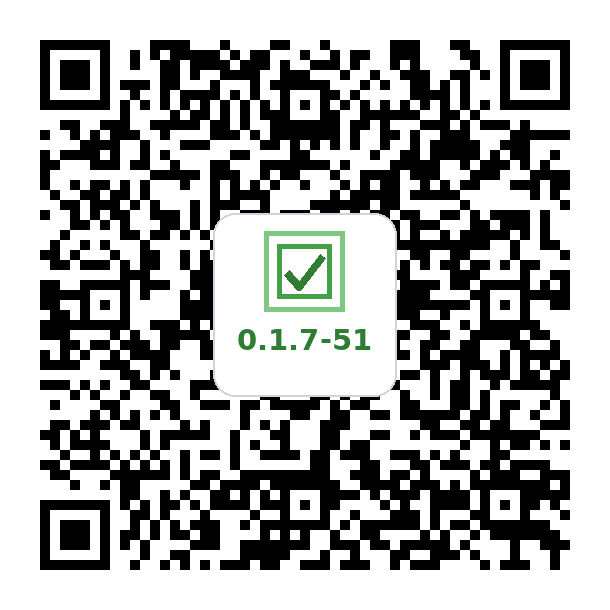
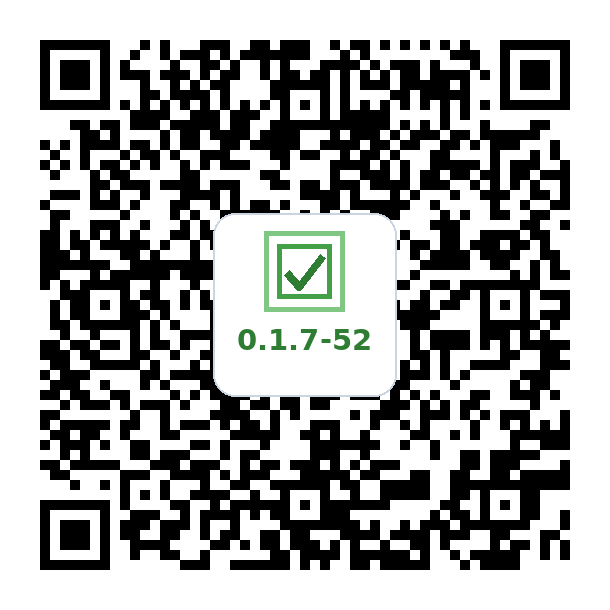
deploy: 0eec8721bb5e966b21db14fffc6a475b92b595af

Changed region(s): [[0.0623, 0.0623, 0.9344, 0.9344], [0.5918, 0.5295, 0.623, 0.5607]]

diff --git a/index.html b/index.html
@@ -207,26 +207,16 @@
       </div>
       <ol>
         <li>
-          <strong>Scan or Download:</strong> Point your phone's camera at the <strong>Stable Release</strong> QR code (on the left) below, or tap its download link if you are viewing this page on your phone:
-          <div class="qr-row">
-            <div class="qr-container">
-            <div class="qr-label">Stable Release</div>
-            <img src="qr-main.png" alt="MicroTasking APK QR Code (v0.1.7-34)">
+          <strong>Scan or Download:</strong> Point your phone's camera at the QR code below, or tap its download link if you are viewing this page on your phone:
+          <div class="qr-container">
+            
+            <img src="qr.png" alt="MicroTasking APK QR Code (v0.1.7-52)">
             <br>
-            <a href="https://github.com/vemcg/MicroTasking/releases/download/v0.1.7-34/MicroTasking-v0.1.7-34.apk" class="btn" target="_blank" rel="noopener">Download MicroTasking APK (v0.1.7-34)</a>
+            <a href="https://github.com/vemcg/MicroTasking/releases/download/v0.1.7-52/MicroTasking-v0.1.7-52.apk" class="btn" target="_blank" rel="noopener">Download MicroTasking APK (v0.1.7-52)</a>
             <br>
-            <a href="https://github.com/vemcg/MicroTasking/releases/download/v0.1.7-34/MicroTasking-v0.1.7-34.apk" target="_blank" rel="noopener">Open the download again</a>
+            <a href="https://github.com/vemcg/MicroTasking/releases/download/v0.1.7-52/MicroTasking-v0.1.7-52.apk" target="_blank" rel="noopener">Open the download again</a>
           </div>
-            <div class="qr-container">
-            <div class="qr-label">background-tasking</div>
-            <img src="qr.png" alt="MicroTasking APK QR Code (v0.1.7-51)">
-            <br>
-            <a href="https://github.com/vemcg/MicroTasking/releases/download/v0.1.7-51/MicroTasking-v0.1.7-51.apk" class="btn" target="_blank" rel="noopener">Download MicroTasking APK (v0.1.7-51)</a>
-            <br>
-            <a href="https://github.com/vemcg/MicroTasking/releases/download/v0.1.7-51/MicroTasking-v0.1.7-51.apk" target="_blank" rel="noopener">Open the download again</a>
-          </div>
-          </div>
-          <p class="qr-guidance"><strong>Which one to use:</strong> Install from the <strong>Stable Release</strong> on the left &mdash; that is the build you should download and run. The <strong>background-tasking</strong> development build on the right is an in-progress branch, published for testing only. You are welcome to try it, but it may be unstable, may fail to install or launch, and carries no guarantee that it works at all.</p>
+          
         </li>
         <li>
           <strong>Allow Sideloading (First Time Only):</strong>
